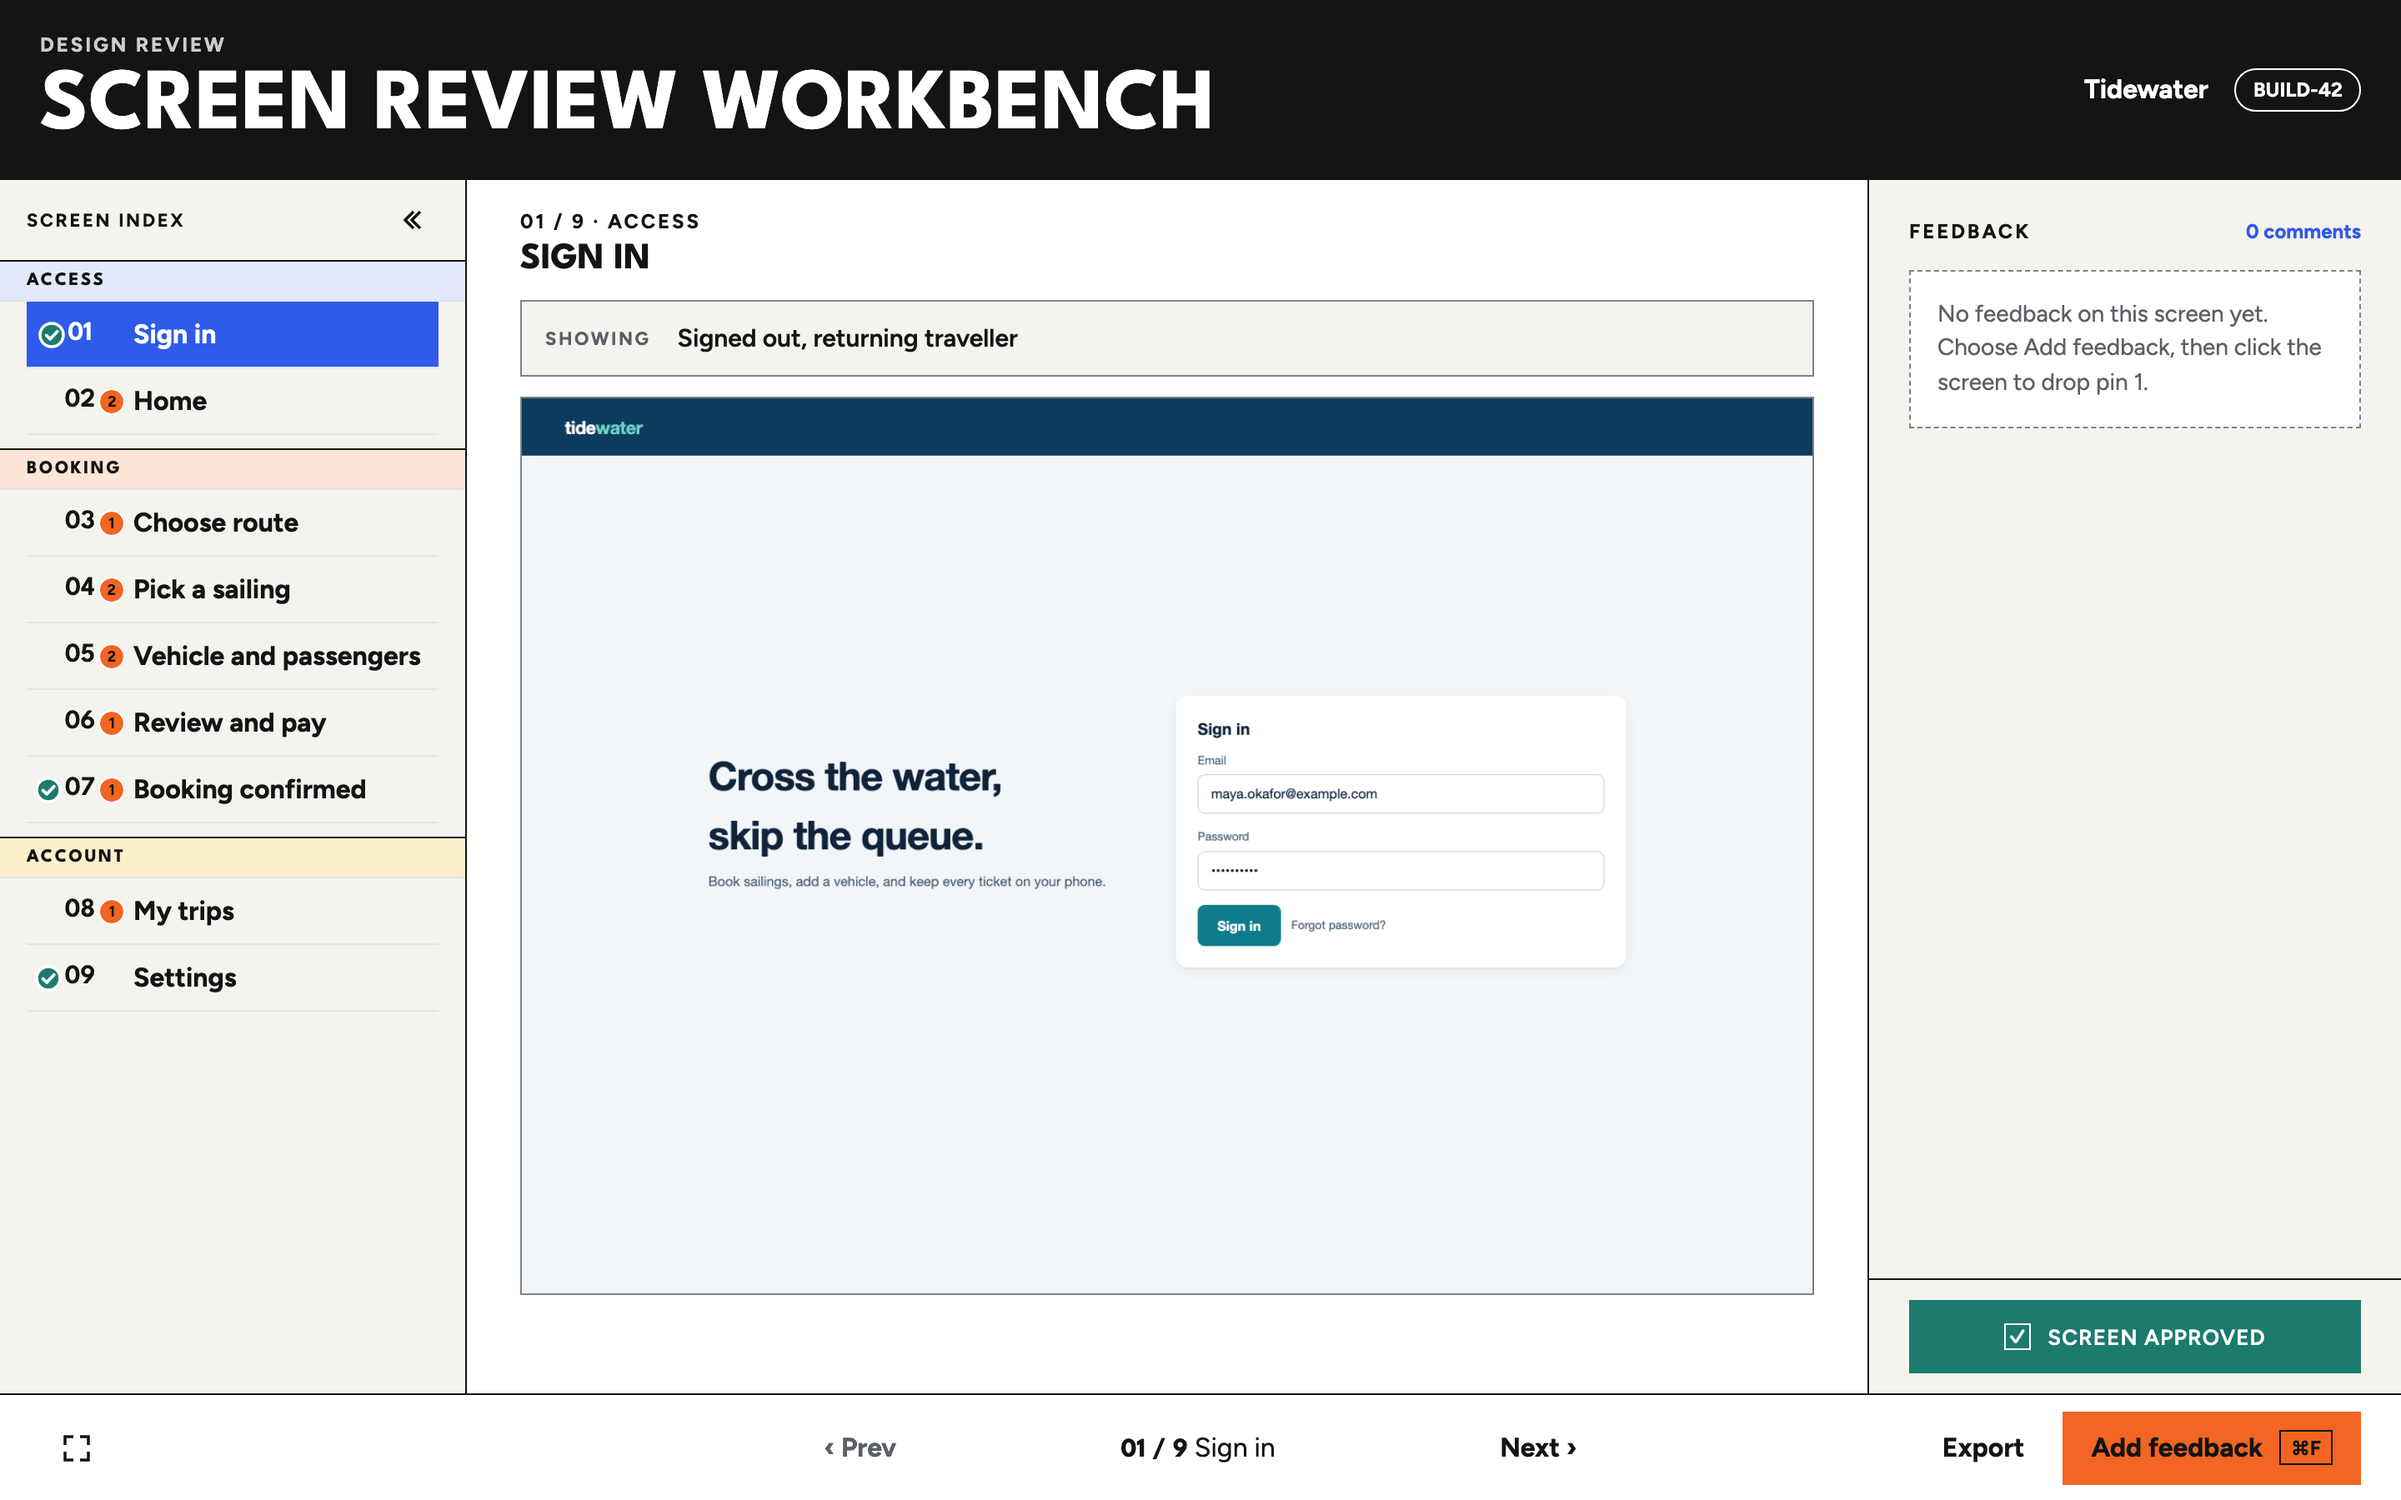
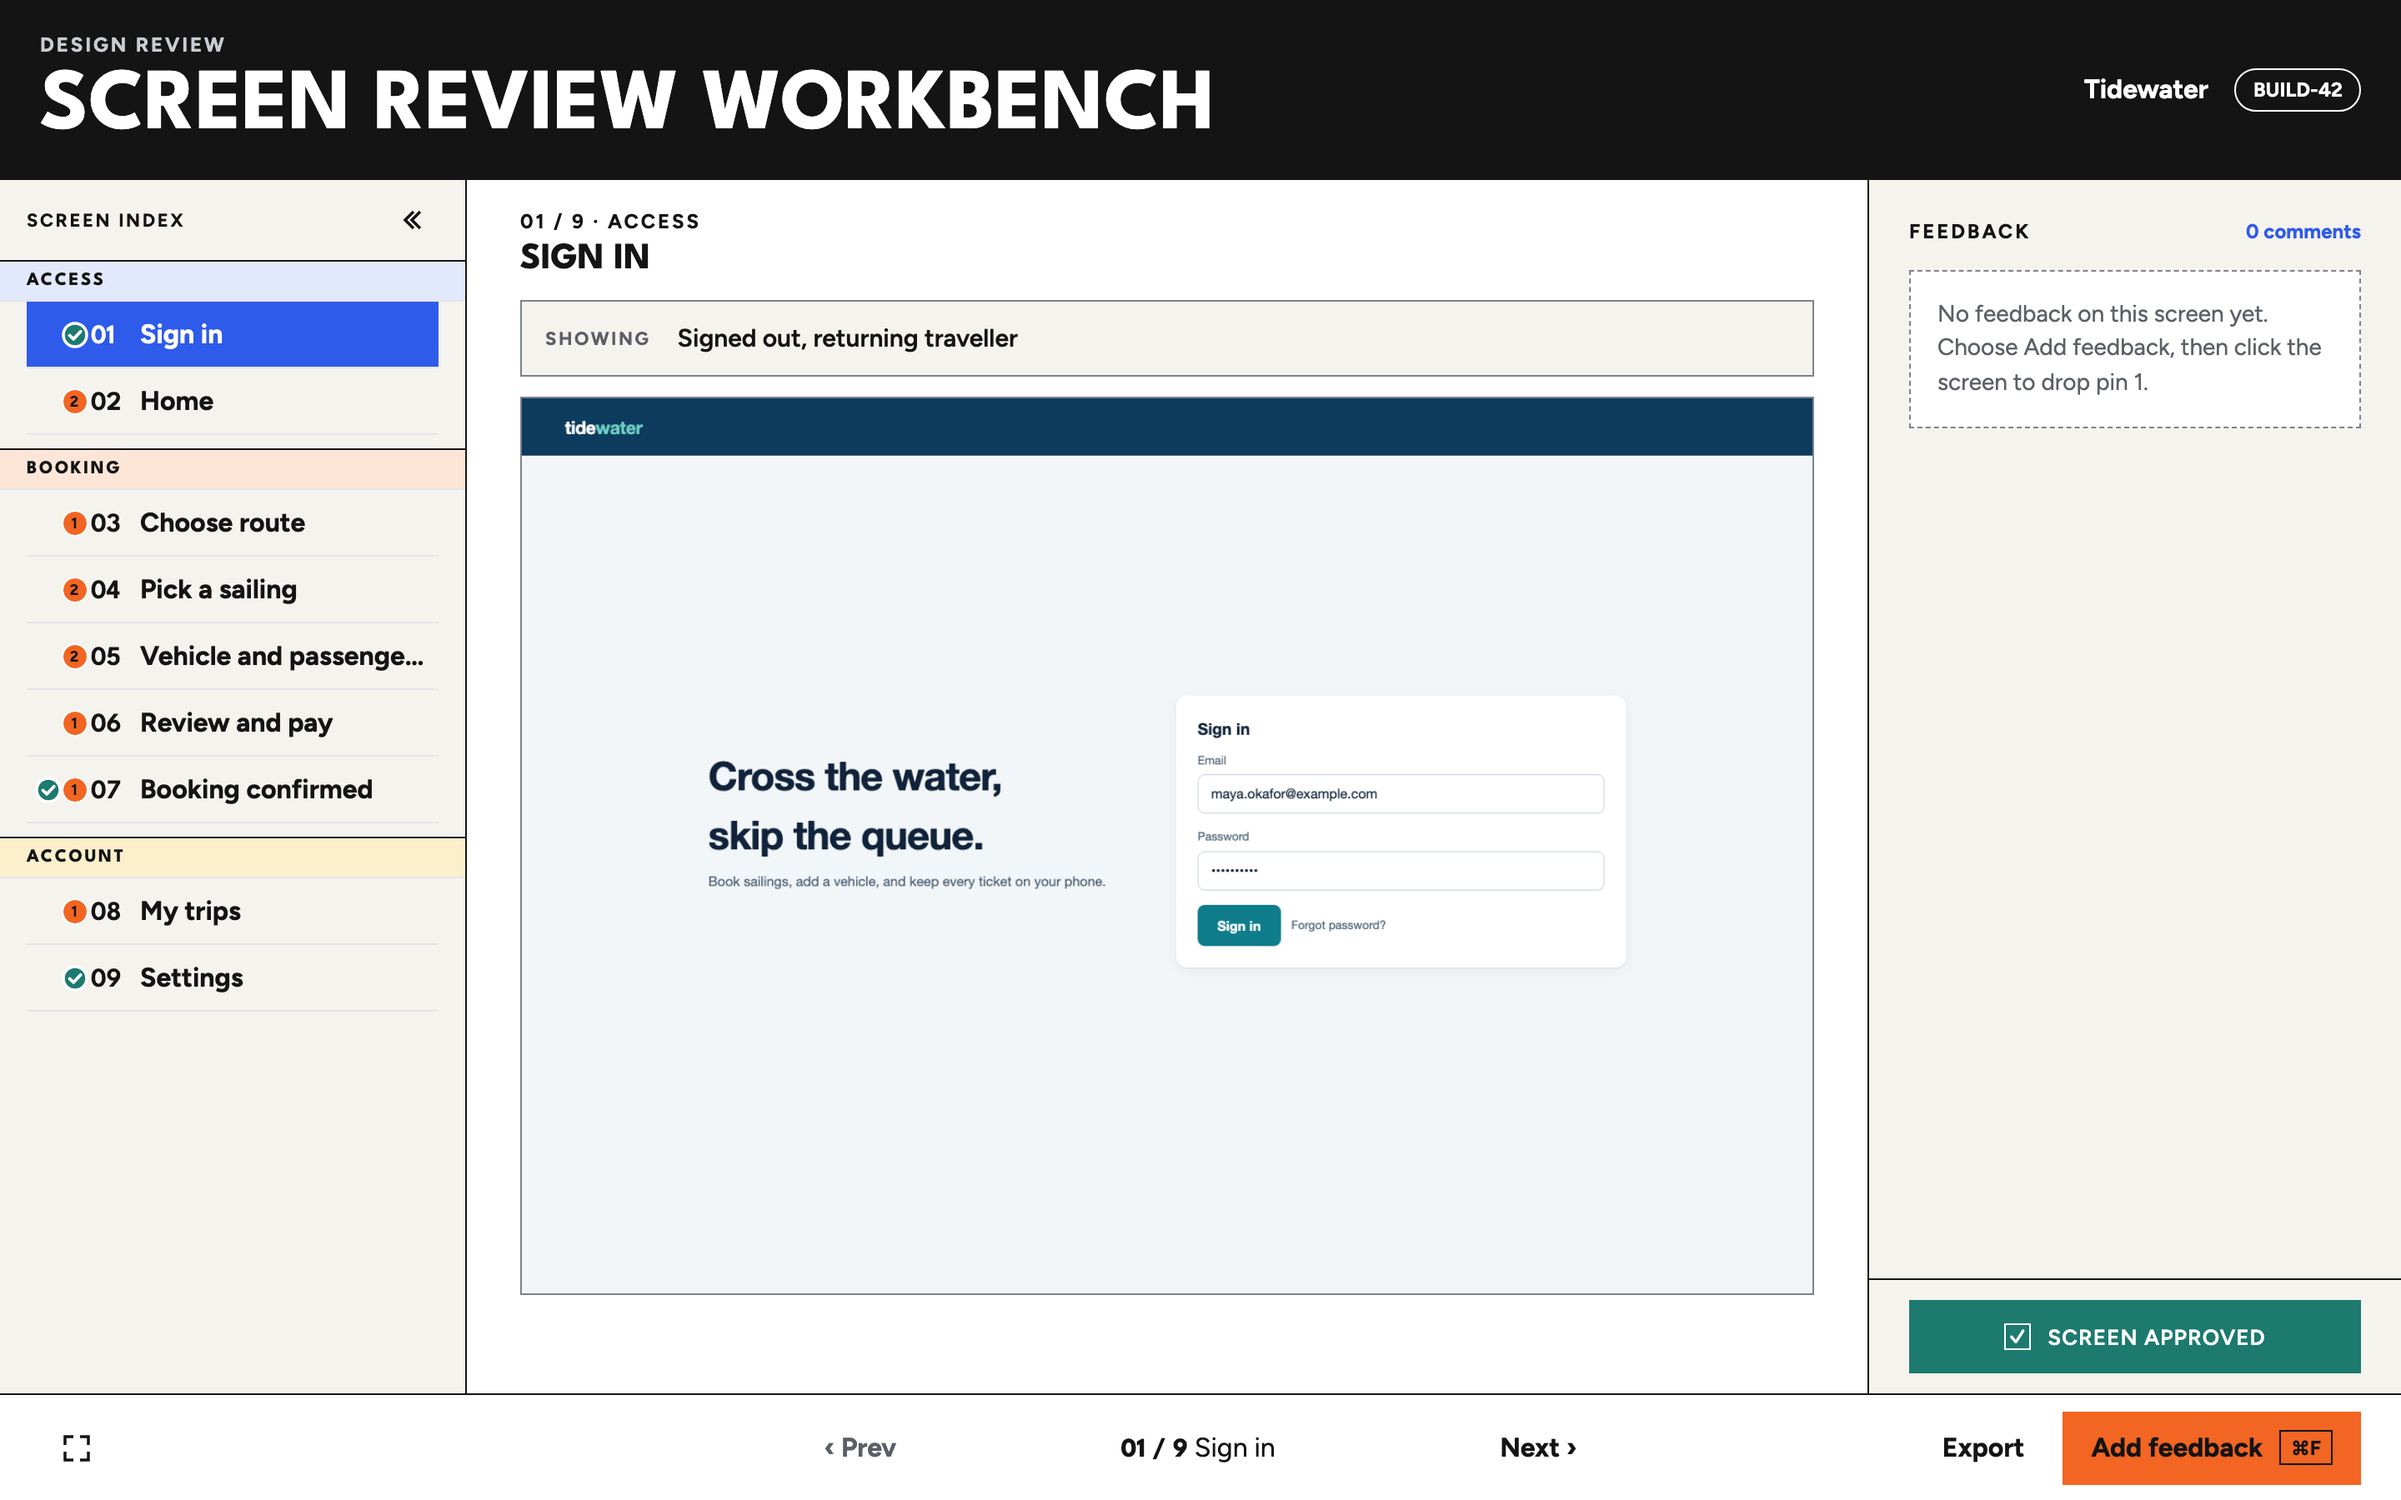
Move comment counts left of rail numbers; center badges on digits
Badges share a fixed 30px slot before the number (check outermost, count
beside the digits) so screens that are approved with open comments fit the
collapsed rail. Digits are trimmed to cap height so badges center on them.
Site screenshots regenerated.

Copilot-Session: 70ee0a7d-6d69-4048-ab99-52f2c6485819

Changed region(s): [[0.0312, 0.3422, 0.1875, 0.5289], [0.0312, 0.5911, 0.0938, 0.6844], [0.0, 0.2178, 0.0938, 0.28]]

diff --git a/src/client/components/screen-rail.tsx b/src/client/components/screen-rail.tsx
@@ -141,27 +141,29 @@ export function ScreenRail({
                 type="button"
               >
                 <span className="screen-number">
-                  {String(screen.ordinal).padStart(2, "0")}
-                  {approved ? (
-                    <svg
-                      aria-hidden="true"
-                      className="screen-approved-mark"
-                      data-testid="screen-approved-mark"
-                      viewBox="0 0 12 12"
-                    >
-                      <circle cx="6" cy="6" r="6" />
-                      <path d="M3.2 6.2 5.2 8.1 8.9 4.2" />
-                    </svg>
-                  ) : null}
-                  {openCount ? (
-                    <span
-                      aria-hidden="true"
-                      className="screen-open-count"
-                      data-testid="screen-open-count"
-                    >
-                      {openCount}
-                    </span>
-                  ) : null}
+                  <span aria-hidden="true" className="screen-badges">
+                    {approved ? (
+                      <svg
+                        className="screen-approved-mark"
+                        data-testid="screen-approved-mark"
+                        viewBox="0 0 12 12"
+                      >
+                        <circle cx="6" cy="6" r="6" />
+                        <path d="M3.2 6.2 5.2 8.1 8.9 4.2" />
+                      </svg>
+                    ) : null}
+                    {openCount ? (
+                      <span
+                        className="screen-open-count"
+                        data-testid="screen-open-count"
+                      >
+                        {openCount}
+                      </span>
+                    ) : null}
+                  </span>
+                  <span className="screen-ordinal">
+                    {String(screen.ordinal).padStart(2, "0")}
+                  </span>
                 </span>
                 <span className="screen-name">{screen.title}</span>
               </button>

diff --git a/src/client/styles.css b/src/client/styles.css
@@ -595,7 +595,7 @@ h1 {
   width: 100%;
   min-height: 40px;
   grid-template-columns: 56px minmax(0, 1fr);
-  gap: 4px;
+  gap: 8px;
   align-items: center;
   padding: 6px 8px 6px 4px;
   border: 0;
@@ -624,34 +624,48 @@ h1 {
   outline-color: var(--ink);
 }
 
+/* The number cell is a fixed badge slot plus the digits. The slot keeps every
+   number in one column and has room for both badges, so a screen that is
+   approved and still has open comments fits the collapsed rail. The approved
+   check sits outermost, the open-comment count beside the number. */
 .screen-number {
-  position: relative;
+  display: flex;
+  align-items: center;
   justify-self: center;
-  font-family: var(--font-display);
-  font-size: 16px;
-  text-align: center;
+  gap: 3px;
 }
 
-/* The number is flanked by two matching 14px badges: the approved check on
-   its left and the open-comment count on its right. Both hang outside the
-   number so it stays centered, and both show collapsed or expanded. The paper
-   ring keeps them legible on the blue current row. */
+.screen-badges {
+  display: flex;
+  width: 30px;
+  align-items: center;
+  justify-content: flex-end;
+  gap: 2px;
+}
+
+/* Trim the digits to cap height so the row and its badges center on the
+   visible glyphs rather than on the display font's padded line box. */
+.screen-ordinal {
+  font-family: var(--font-display);
+  font-size: 16px;
+  line-height: 1;
+  min-width: 20px;
+  text-box: trim-both cap alphabetic;
+}
+
+/* The paper ring keeps both badges legible on the blue current row. */
 .screen-approved-mark,
 .screen-open-count {
-  position: absolute;
-  top: 50%;
-  transform: translateY(-50%);
+  flex: none;
   height: 14px;
 }
 
 .screen-approved-mark {
-  right: calc(100% + 3px);
   width: 14px;
   overflow: visible;
 }
 
 .screen-open-count {
-  left: calc(100% + 3px);
   display: grid;
   min-width: 14px;
   place-items: center;

diff --git a/tests/feedback-inspector.test.tsx b/tests/feedback-inspector.test.tsx
@@ -139,7 +139,7 @@ describe("FeedbackInspector", () => {
     });
   });
 
-  it("flushes status immediately", async () => {
+  it("requires and saves a change summary when marking feedback fixed", async () => {
     const onUpdate = vi.fn(async (id: string, input: UpdateFeedbackInput) =>
       feedback({
         id,
@@ -150,6 +150,12 @@ describe("FeedbackInspector", () => {
     renderInspector({ onUpdate });
 
     fireEvent.change(
+      screen.getByRole("textbox", { name: "Change summary" }),
+      {
+        target: { value: "Aligned the illustration with the sign-in button." },
+      },
+    );
+    fireEvent.change(
       screen.getByRole("combobox", { name: "Feedback status" }),
       {
         target: { value: "RESOLVED" },
@@ -159,7 +165,13 @@ describe("FeedbackInspector", () => {
     expect(onUpdate).toHaveBeenCalledTimes(1);
     expect(onUpdate).toHaveBeenCalledWith("feedback-1", {
       expectedUpdatedAt: "2026-10-05T20:00:00.000Z",
-      patch: { status: "RESOLVED" },
+      patch: {
+        status: "RESOLVED",
+        reply: {
+          note: "Aligned the illustration with the sign-in button.",
+          author: "Agent",
+        },
+      },
     });
   });
 

diff --git a/tests/feedback-reply.test.ts b/tests/feedback-reply.test.ts
@@ -69,6 +69,16 @@ async function cli(...args: string[]) {
 }
 
 describe("feedback replies", () => {
+  it("requires a change summary when feedback is marked fixed", async () => {
+    const item = await create("Footer floats mid-page.");
+    const response = await send("PATCH", `${base}/${item.id}`, {
+      expectedUpdatedAt: item.updatedAt,
+      patch: { status: "RESOLVED" },
+    });
+
+    expect(response.status).toBe(400);
+  });
+
   it("stamps a reply with the update time and keeps it through later edits", async () => {
     const item = await create("Footer floats mid-page.");
     const replied = await (
@@ -120,7 +130,10 @@ describe("feedback replies", () => {
     const done = await create("Already handled.");
     await send("PATCH", `${base}/${done.id}`, {
       expectedUpdatedAt: done.updatedAt,
-      patch: { status: "RESOLVED" },
+      patch: {
+        status: "RESOLVED",
+        reply: { note: "Completed before this review.", author: "Copilot" },
+      },
     });
 
     const listed = await cli("--list");

diff --git a/tests/manifest.test.ts b/tests/manifest.test.ts
@@ -3,7 +3,7 @@ import { describe, expect, it } from "vitest";
 import { parseScreens } from "../src/shared/manifest";
 
 describe("screen manifest", () => {
-  it("requires unique stable ordinals", () => {
+  it("requires a description of the state shown on every screen", () => {
     expect(() =>
       parseScreens([
         {
@@ -13,10 +13,26 @@ describe("screen manifest", () => {
           group: "One",
           viewport: { width: 1440, height: 1000 },
         },
+      ]),
+    ).toThrow(/description/i);
+  });
+
+  it("requires unique stable ordinals", () => {
+    expect(() =>
+      parseScreens([
+        {
+          id: "a",
+          ordinal: 1,
+          title: "A",
+          description: "Shows state A.",
+          group: "One",
+          viewport: { width: 1440, height: 1000 },
+        },
         {
           id: "b",
           ordinal: 1,
           title: "B",
+          description: "Shows state B.",
           group: "One",
           viewport: { width: 1440, height: 1000 },
         },

diff --git a/tests/screen-rail.test.tsx b/tests/screen-rail.test.tsx
@@ -66,6 +66,15 @@ describe("ScreenRail", () => {
     expect(
       number?.querySelector("[data-testid=screen-open-count]"),
     ).toHaveTextContent("3");
+    // Badges lead the digits: check outermost, then the count, then "01".
+    const parts = [...(number?.querySelectorAll("*") ?? [])].filter((node) =>
+      node.matches(
+        "[data-testid=screen-approved-mark], [data-testid=screen-open-count], .screen-ordinal",
+      ),
+    );
+    expect(
+      parts.map((node) => node.getAttribute("data-testid") ?? node.textContent),
+    ).toEqual(["screen-approved-mark", "screen-open-count", "01"]);
     const second = screen.getByRole("button", { name: "02. Dashboard" });
     expect(second.querySelector("[data-testid=screen-open-count]")).toBeNull();
   });

diff --git a/README.md b/README.md
@@ -48,9 +48,10 @@ The server binds to `http://127.0.0.1:4173`.
 - **Approve screen** is pinned to the foot of the feedback panel. One click
   approves the screen (teal, "Screen approved"); click again to unapprove.
   Approvals are saved per version and screen in `approvals.json`. Approved
-  screens carry a teal check just left of their number in the screen index, expanded,
-  collapsed and fullscreen. The open-comment count sits just right of the
-  number as a matching orange badge, so both read in the collapsed rail.
+  screens carry a teal check left of their number in the screen index, expanded,
+  collapsed and fullscreen. The open-comment count sits between the check and
+  the number as a matching orange badge, both centered on the digits, so a
+  screen that is approved and still has open comments fits the collapsed rail.
 - A **Showing** strip above each capture says exactly what it shows (for
   example "Step 3 of 5, manual path selected"). Click it to edit; Enter saves,
   Esc cancels. Text is saved per version and screen in `captions.json`; a
